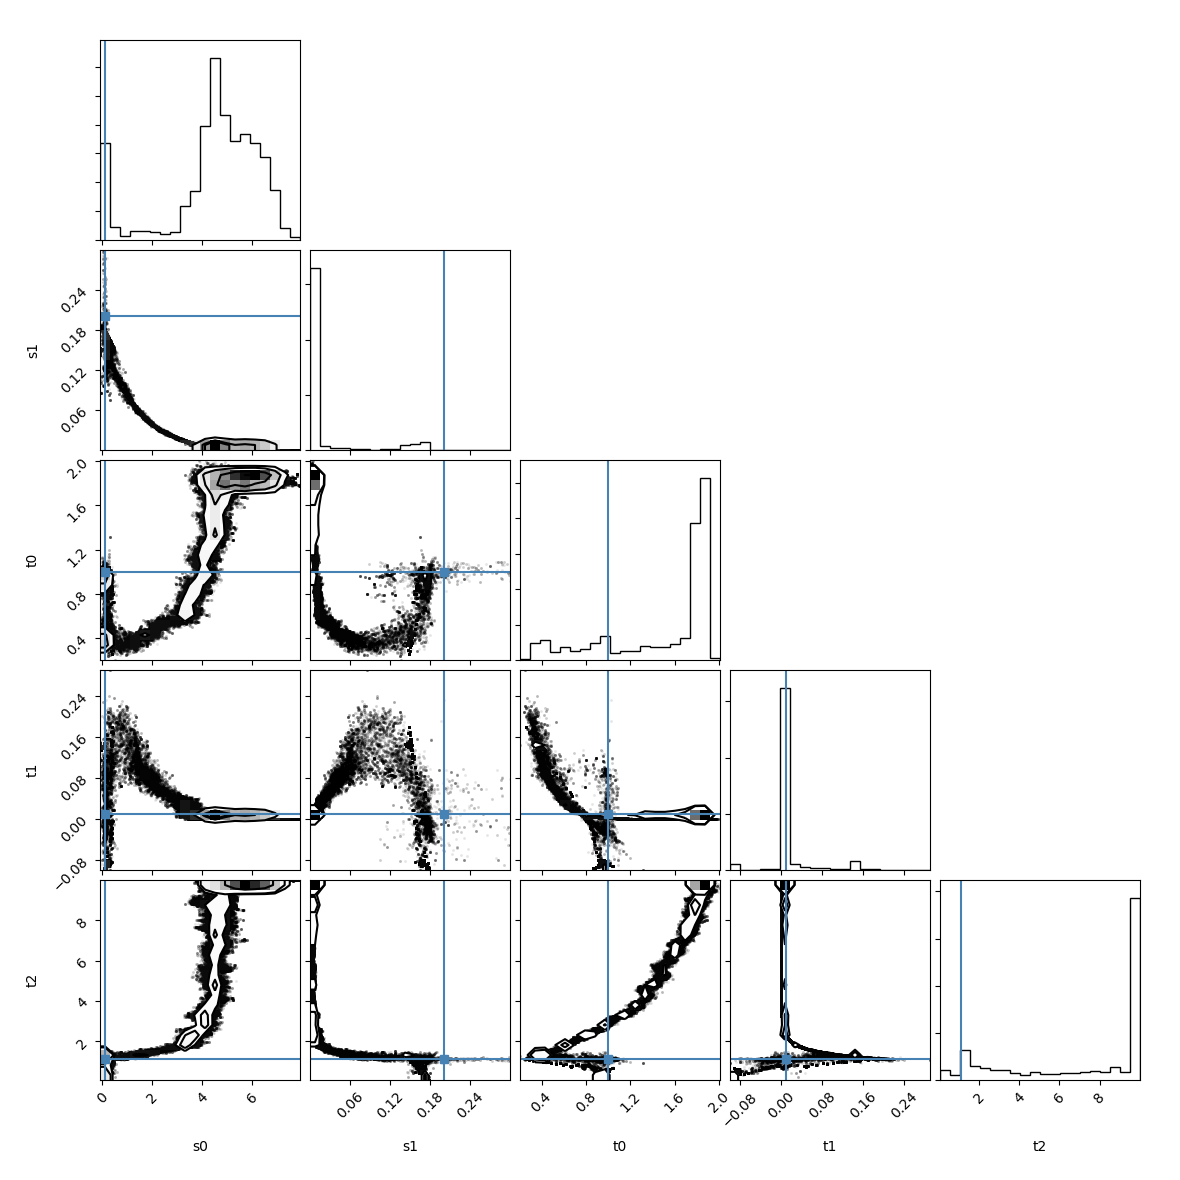
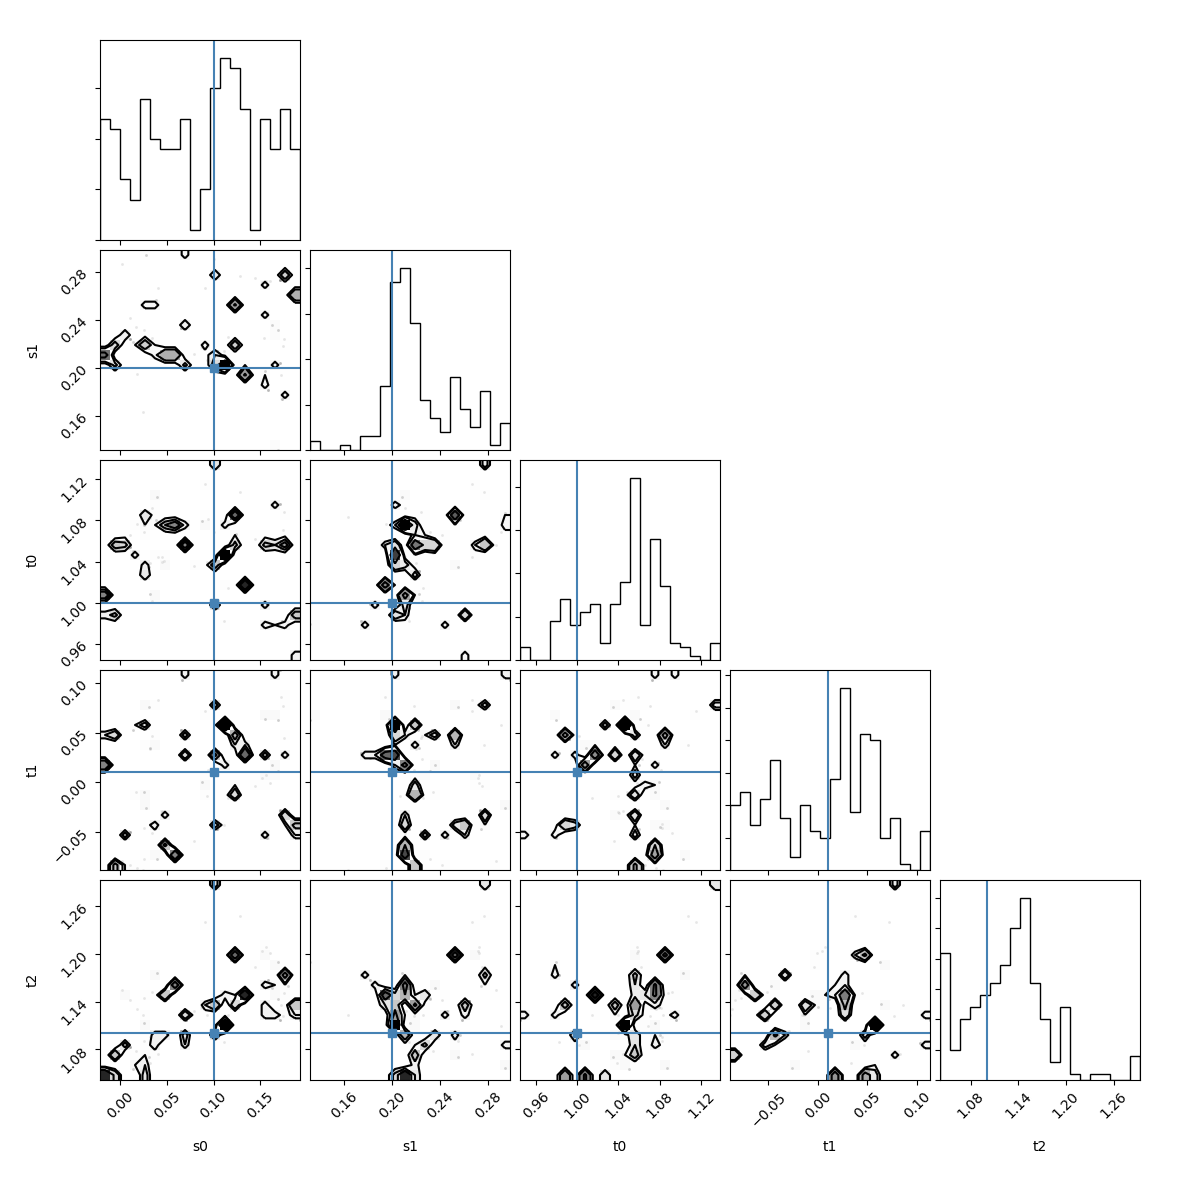
fixed initial and boundary conds

diff --git a/1d_calibration.py b/1d_calibration.py
@@ -22,11 +22,12 @@ from multiprocessing import Pool
 from multiprocessing import cpu_count
 import emcee
 
+#%%
 """
 Definitions
 """
 
-def fabricate_data(nx, dt, s0, s1, t0, t1, t2, HINI, NDAYS, SENSOR_LOCATIONS, MAX_HEAD_BOUNDARIES=5., MAX_SOURCE=3., filename="fabricated_data.txt"):
+def fabricate_data(nx, dt, params, HINI, NDAYS, SENSOR_LOCATIONS, MAX_HEAD_BOUNDARIES=5., MAX_SOURCE=3., filename="fabricated_data.txt"):
 
     """
 
@@ -62,66 +63,43 @@ def fabricate_data(nx, dt, s0, s1, t0, t1, t2, HINI, NDAYS, SENSOR_LOCATIONS, MA
 
     """
     dx = 1
-    mesh = fp.Grid1D(nx=nx, dx=dx)
     
-    h = fp.CellVariable(name="head", mesh=mesh, value=HINI, hasOld=True)
-
-    theta = fp.CellVariable(name="theta", mesh=mesh, value=numerix.exp(s0_true + s1_true*h.value), hasOld=True)
+    s0 = params[0]; s1 = params[1] 
+    t0 = params[2]; t1 = params[3]; t2 = params[4]
     
-    D = t0_true/s1_true * numerix.exp(t1_true* ((numerix.log(theta) -s0_true)/s1_true)**t2_true)/ theta
+    theta_ini = np.exp(s0 + s1*HINI) 
     
     # BC, source/sink
     boundary_sensors = np.random.rand(NDAYS, 2) * MAX_HEAD_BOUNDARIES
     PRECIPITATION = np.random.rand(NDAYS) * MAX_SOURCE
     EVAPOTRANSPIRATION = np.random.rand(NDAYS) * MAX_SOURCE
-    P = PRECIPITATION[0]; ET = EVAPOTRANSPIRATION[0]
     
-    # Boussinesq eq. in theta
-    eq = fp.TransientTerm() == fp.DiffusionTerm(coeff=D) + P - ET
-    
-    MAX_SWEEPS = 100
+    wtd = hydro_1d(nx, dx, dt, params, theta_ini, NDAYS, SENSOR_LOCATIONS, boundary_sensors, PRECIPITATION, EVAPOTRANSPIRATION)
 
-    
     with open(filename, 'w') as out:
-        out.write('sensor0   sensor1   sensor2   sensor3   day   P   ET\n')
-    
-    for day in range(NDAYS):
-        
-        theta.updateOld()
-        
-        # BC and Source/sink update
-        theta_left = numerix.exp(s0_true + s1_true*boundary_sensors[day,0])
-        theta_right = numerix.exp(s0_true + s1_true*boundary_sensors[day,1])
-        theta.constrain(theta_left, where=mesh.facesLeft); theta.constrain(theta_right, where=mesh.facesRight)
-        P = PRECIPITATION[day]; ET = EVAPOTRANSPIRATION[day]
-        
-        
-        res = 0.0
-        for r in range(MAX_SWEEPS):
-            resOld=res
-            res = eq.sweep(var=theta, dt=dt)
-
-            if abs(res - resOld) < 1e-7: break # it has reached the solution of the linear system
-      
-        with open(filename, 'a') as out:
-            h_from_theta = (numerix.log(theta) -s0)/s1
-            sensor_values = [h_from_theta.value[loc] for loc in SENSOR_LOCATIONS]
-            line = "   ".join([str(s_v) for s_v in sensor_values])
-            line = line + f"   {day}   {P}   {ET}"
+        out.write('bcleft   sensor0   sensor1   sensor2   sensor3   bcright   day   P   ET\n')
+        for day, l in enumerate(wtd):
+            line = "   ".join([str(s_v) for s_v in l])
+            line = f"{boundary_sensors[day,0]}   " + line + f"   {boundary_sensors[day,1]}   {day}   {PRECIPITATION[day]}   {EVAPOTRANSPIRATION[day]}"
             out.write( line + '\n')
+    
+    return 0
+
 
 def read_sensors(filename):
     with open(filename, 'r') as f:
         df_sensors = pd.read_csv(filename, engine='python', sep='   ')
     
+    bcleft = df_sensors['bcleft'].to_numpy()
+    bcright = df_sensors['bcright'].to_numpy()
     sensor_measurements = df_sensors.loc[:,'sensor0':'sensor3'].to_numpy()
     day = df_sensors['day'].to_numpy()
     P = df_sensors['P'].to_numpy()
     ET = df_sensors['ET'].to_numpy()
     
-    return sensor_measurements, day, P, ET
+    return bcleft, bcright, sensor_measurements, day, P, ET
 
-def hydro_1d(nx, dx, dt, params, theta_ini, ndays, sensor_loc):
+def hydro_1d(nx, dx, dt, params, theta_ini, ndays, sensor_loc, boundary, precip, evapotra):
     mesh = fp.Grid1D(nx=nx, dx=dx)
     
     s0 = params[0]; s1 = params[1] 
@@ -152,7 +130,7 @@ def hydro_1d(nx, dx, dt, params, theta_ini, ndays, sensor_loc):
         theta.updateOld()
         
         # BC and Source/sink update
-        boundary_sensors = [measurements[day,0], measurements[day, -1]]
+        boundary_sensors = boundary[day]
         theta_left = numerix.exp(s0 + s1*boundary_sensors[0])
         theta_right = numerix.exp(s0 + s1*boundary_sensors[1])
         theta.constrain(theta_left, where=mesh.facesLeft); theta.constrain(theta_right, where=mesh.facesRight)
@@ -199,14 +177,13 @@ true_params = [s0_true, s1_true, t0_true, t1_true, t2_true]
 
 HINI = 8.
 
-SENSOR_LOCATIONS = [0, 12, 67, 94]
+SENSOR_LOCATIONS = [0, 12, 67, 99]
 NDAYS = 5
 nx_fabricate=100; dt=1.
 
 
-PLOT_SETUP = False
+PLOT_SETUP = True
 if PLOT_SETUP:
-    plt.figure()
     fig, axes = plt.subplots(2)
     axS, axT = axes
     
@@ -218,7 +195,7 @@ if PLOT_SETUP:
 
 
 # Uncomment this to fabricate and rewrite some data
-# fabricate_data(nx_fabricate, dt, s0_true, s1_true, t0_true, t1_true, t2_true, HINI, NDAYS, SENSOR_LOCATIONS)
+# fabricate_data(nx_fabricate, dt, true_params, HINI, NDAYS, SENSOR_LOCATIONS)
 
 
 #%%
@@ -227,7 +204,8 @@ Get sensor data
 TODO: rewrite for sensors of the same time! MCMC takes care of parallelization
 """
 filename = 'fabricated_data.txt'
-measurements, days, precip, evapotra = read_sensors(filename)
+bcleft, bcright, measurements, days, precip, evapotra = read_sensors(filename)
+boundary = np.array(list(zip(bcleft, bcright)))
 
 if PLOT_SETUP:
     plt.figure()
@@ -239,30 +217,32 @@ if PLOT_SETUP:
 """
 MCMC parameter estimation
 """ 
-nx = 10
+nx = 100
 dx = 1.
 dt = 1.
 
+# IC, interpolated from initial sensor values
+# hini_interp = interpolate.interp1d(SENSOR_LOCATIONS, measurements[0])
+# hini = hini_interp(np.arange(0, nx, dx))
+hini = HINI
 
-NDAYS = 5 # TODO: Get this from data?
+ndays = len(measurements) 
 
 SENSOR_MEASUREMENT_ERR = 0.05 # metres. Theoretically, 1mm
 
 # Correct sensor positions to accommodate new nx
 sensor_locations = np.array(SENSOR_LOCATIONS) * nx / nx_fabricate
 sensor_locations = np.rint(sensor_locations).astype(int)
+ 
 
 def log_likelihood(params):
     s0 = params[0]; s1 = params[1] 
     t0 = params[2]; t1 = params[3]; t2 = params[4];
     
-    # IC, interpolated from initial sensor values
-    hini_interp = interpolate.interp1d(SENSOR_LOCATIONS, measurements[0])
-    hini = hini_interp(np.arange(0, nx, dx))
     theta_ini = np.exp(s0 + s1*hini) 
-    
+
     try:
-        simulated_wtd = hydro_1d(nx, dx, dt, params, theta_ini, NDAYS, sensor_locations)
+        simulated_wtd = hydro_1d(nx, dx, dt, params, theta_ini, ndays, sensor_locations, boundary, precip, evapotra)
     # TODO: this error handling might be the reason of the thing not working. Check!!
     except: # if error in hydro computation
         print("###### SOME ERROR IN HYDRO #######")
